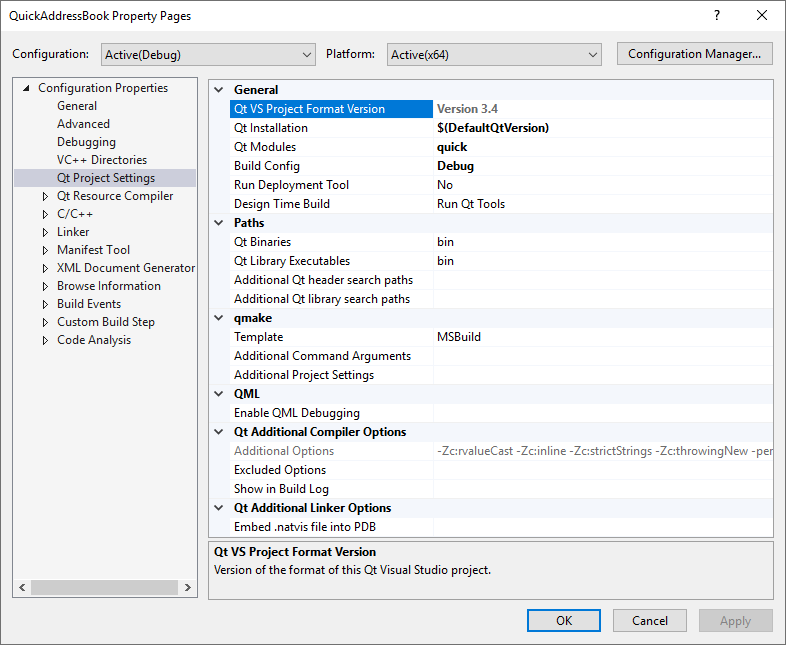
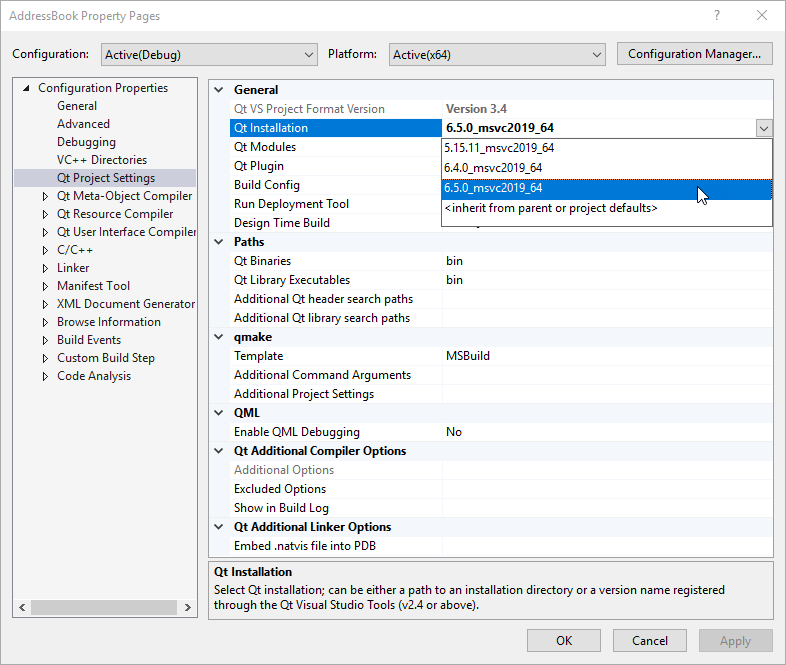
Doc: Update topics about adding Qt versions
- Update screenshots and icons
- Move project-specific info to a separate topic

Task-number: QTVSADDINBUG-1074

diff --git a/doc/config/style/qt5-sidebar.html b/doc/config/style/qt5-sidebar.html
@@ -15,8 +15,8 @@
         <h2>How-to</h2>
     </div>
     <ul>
-            <li><a href="qtvstools-how-to-add-qt-versions.html">Add a Qt version</a></li>
             <li><a href="qtvstools-how-to-add-form-files.html">Add form files</a></li>
+            <li><a href="qtvstools-how-to-add-qt-versions.html">Add Qt versions</a></li>
             <li><a href="qtvstools-how-to-create-qt-translation-files.html">Create Qt translation files</a></li>
              <li><a href="qtvstools-how-to-cross-compile.html">Cross-compile</a></li>
             <li><a href="qtvstools-how-to-debug-on-linux.html">Debug on Linux</a></li>
@@ -25,6 +25,7 @@
             <li><a href="qtvstools-how-to-install.html">Install Qt VS Tools</a></li>
             <li><a href="qtvstools-how-to-load-qt-projects.html">Load Qt projects</a></li>
             <li><a href="qtvstools-how-to-manage-resources.html">Manage resources</a></li>
+            <li><a href="qtvstools-how-to-select-qt-versions-for-project.html">Select Qt versions for a project</a></li>
             <li><a href="qtvstools-how-to-update-intellisense-info.html">Update IntelliSense info</a></li>
     </ul>
 </div>
